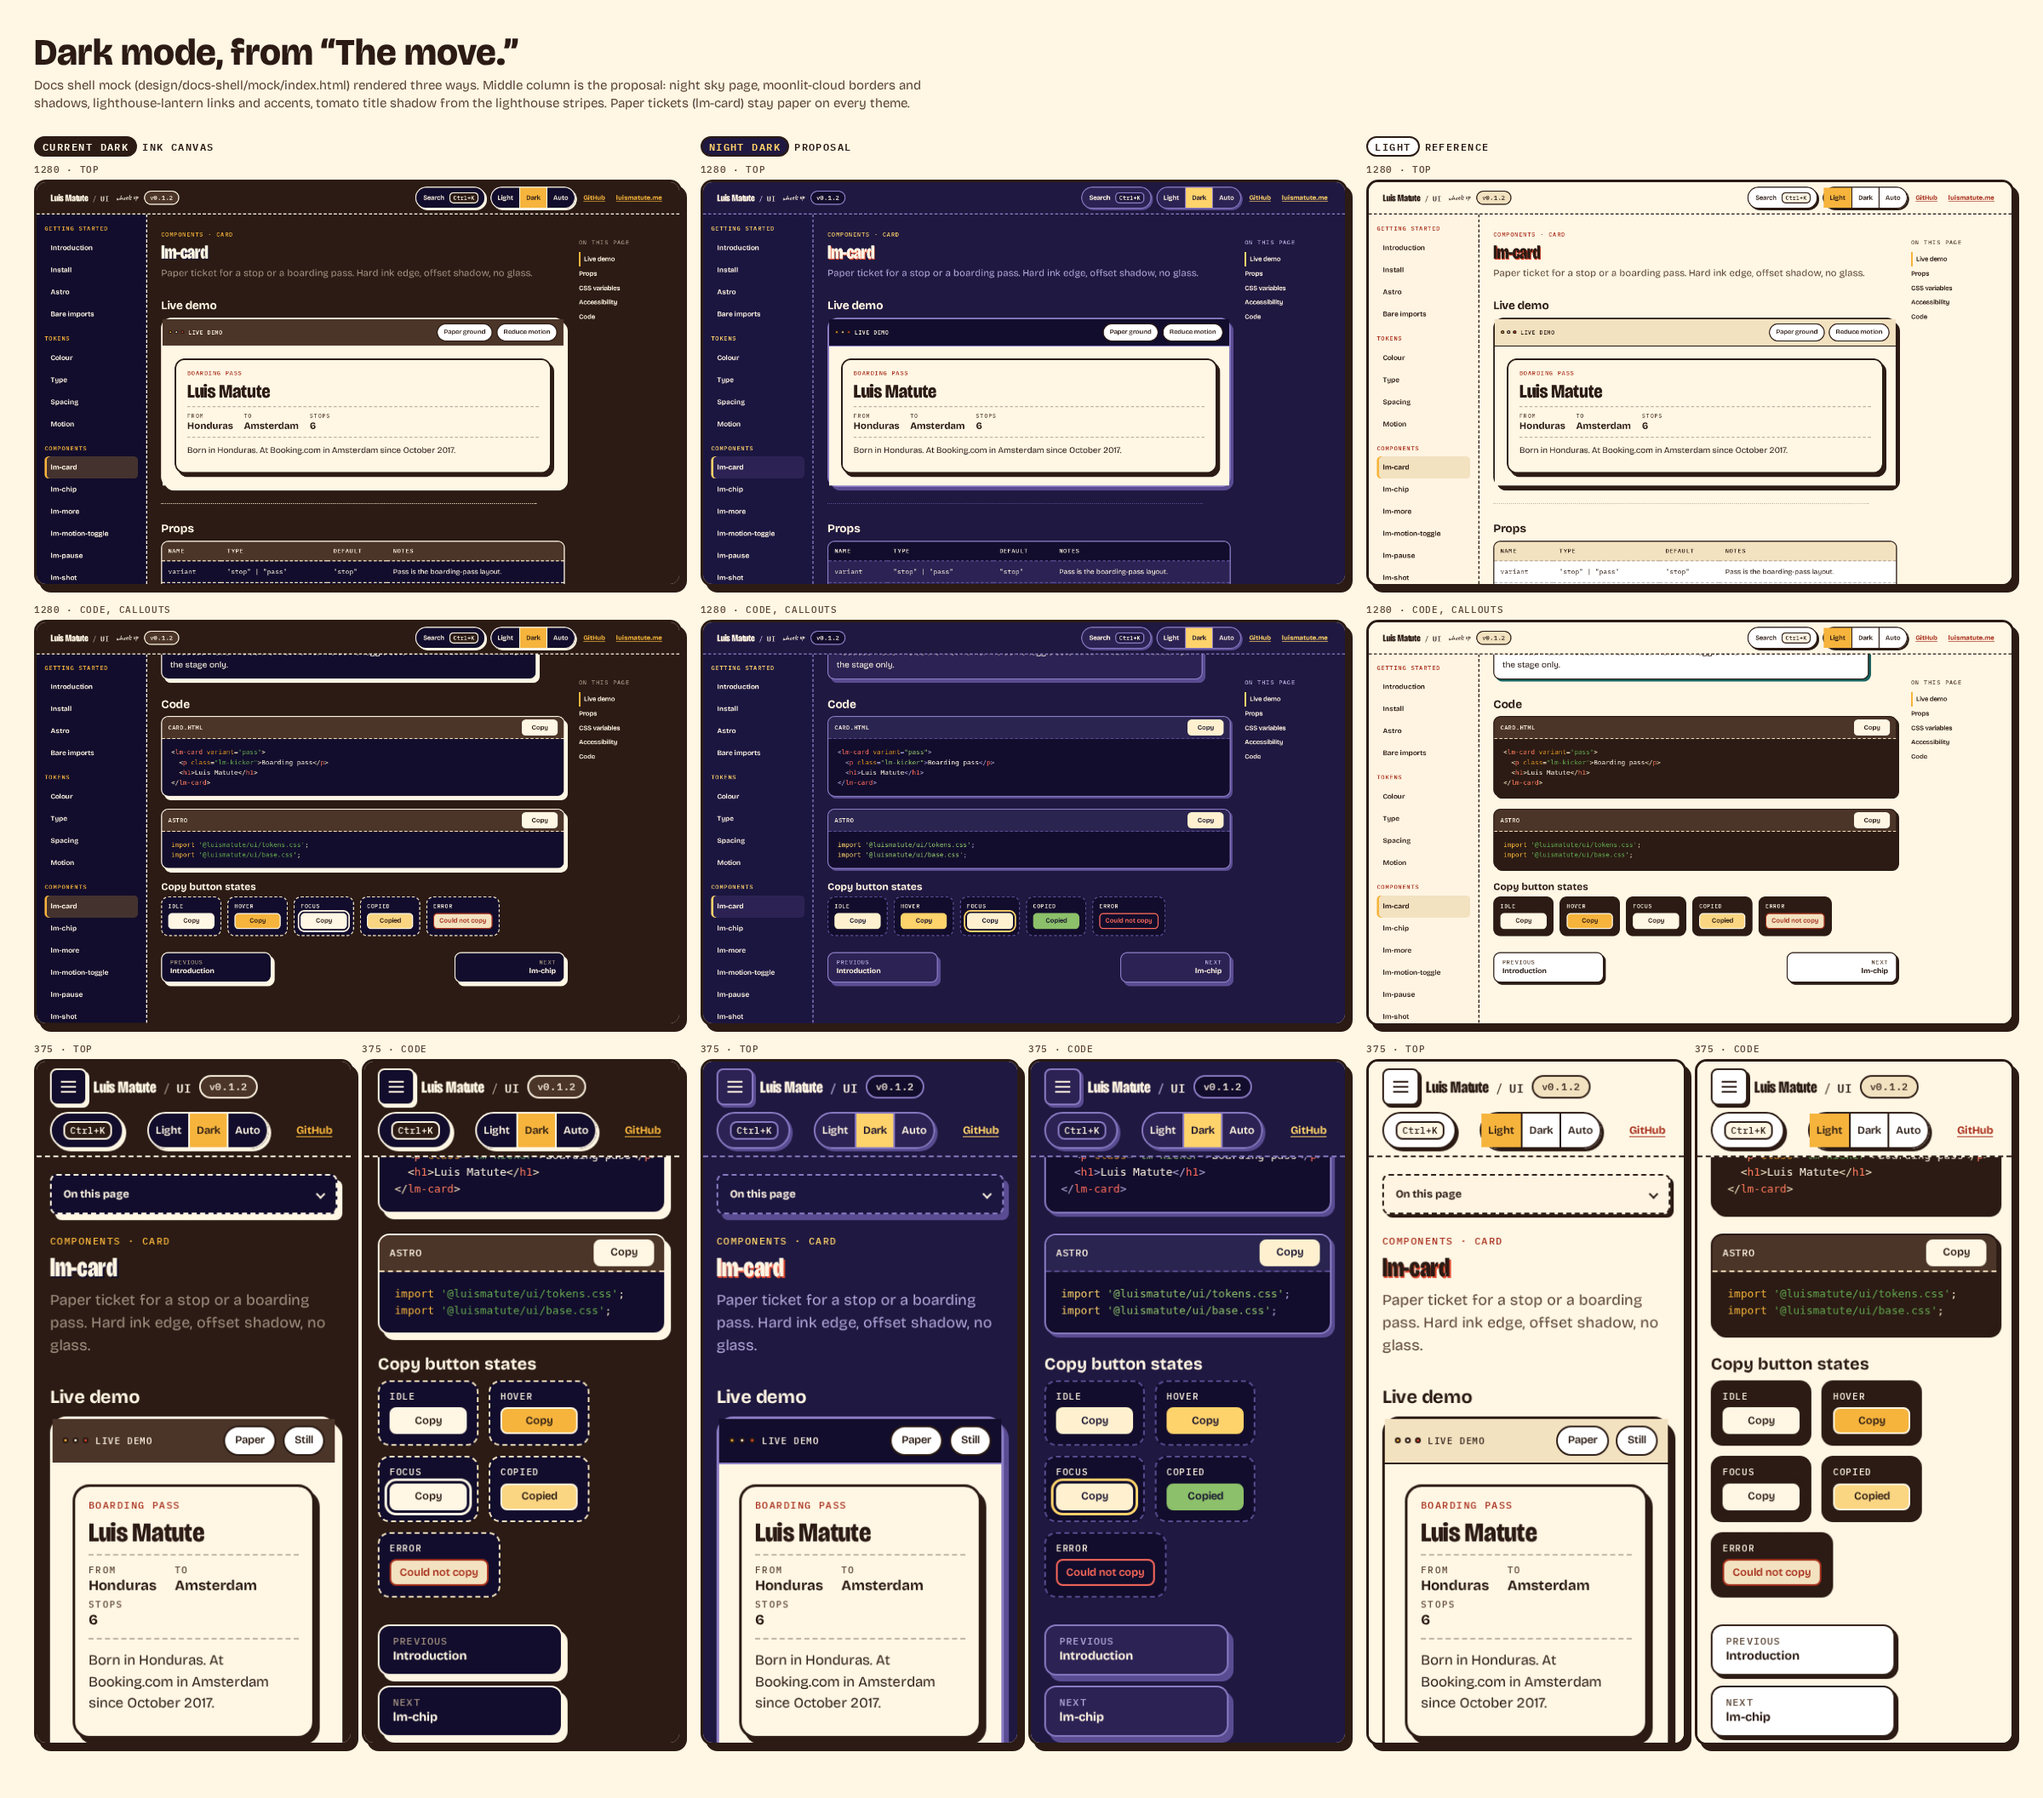
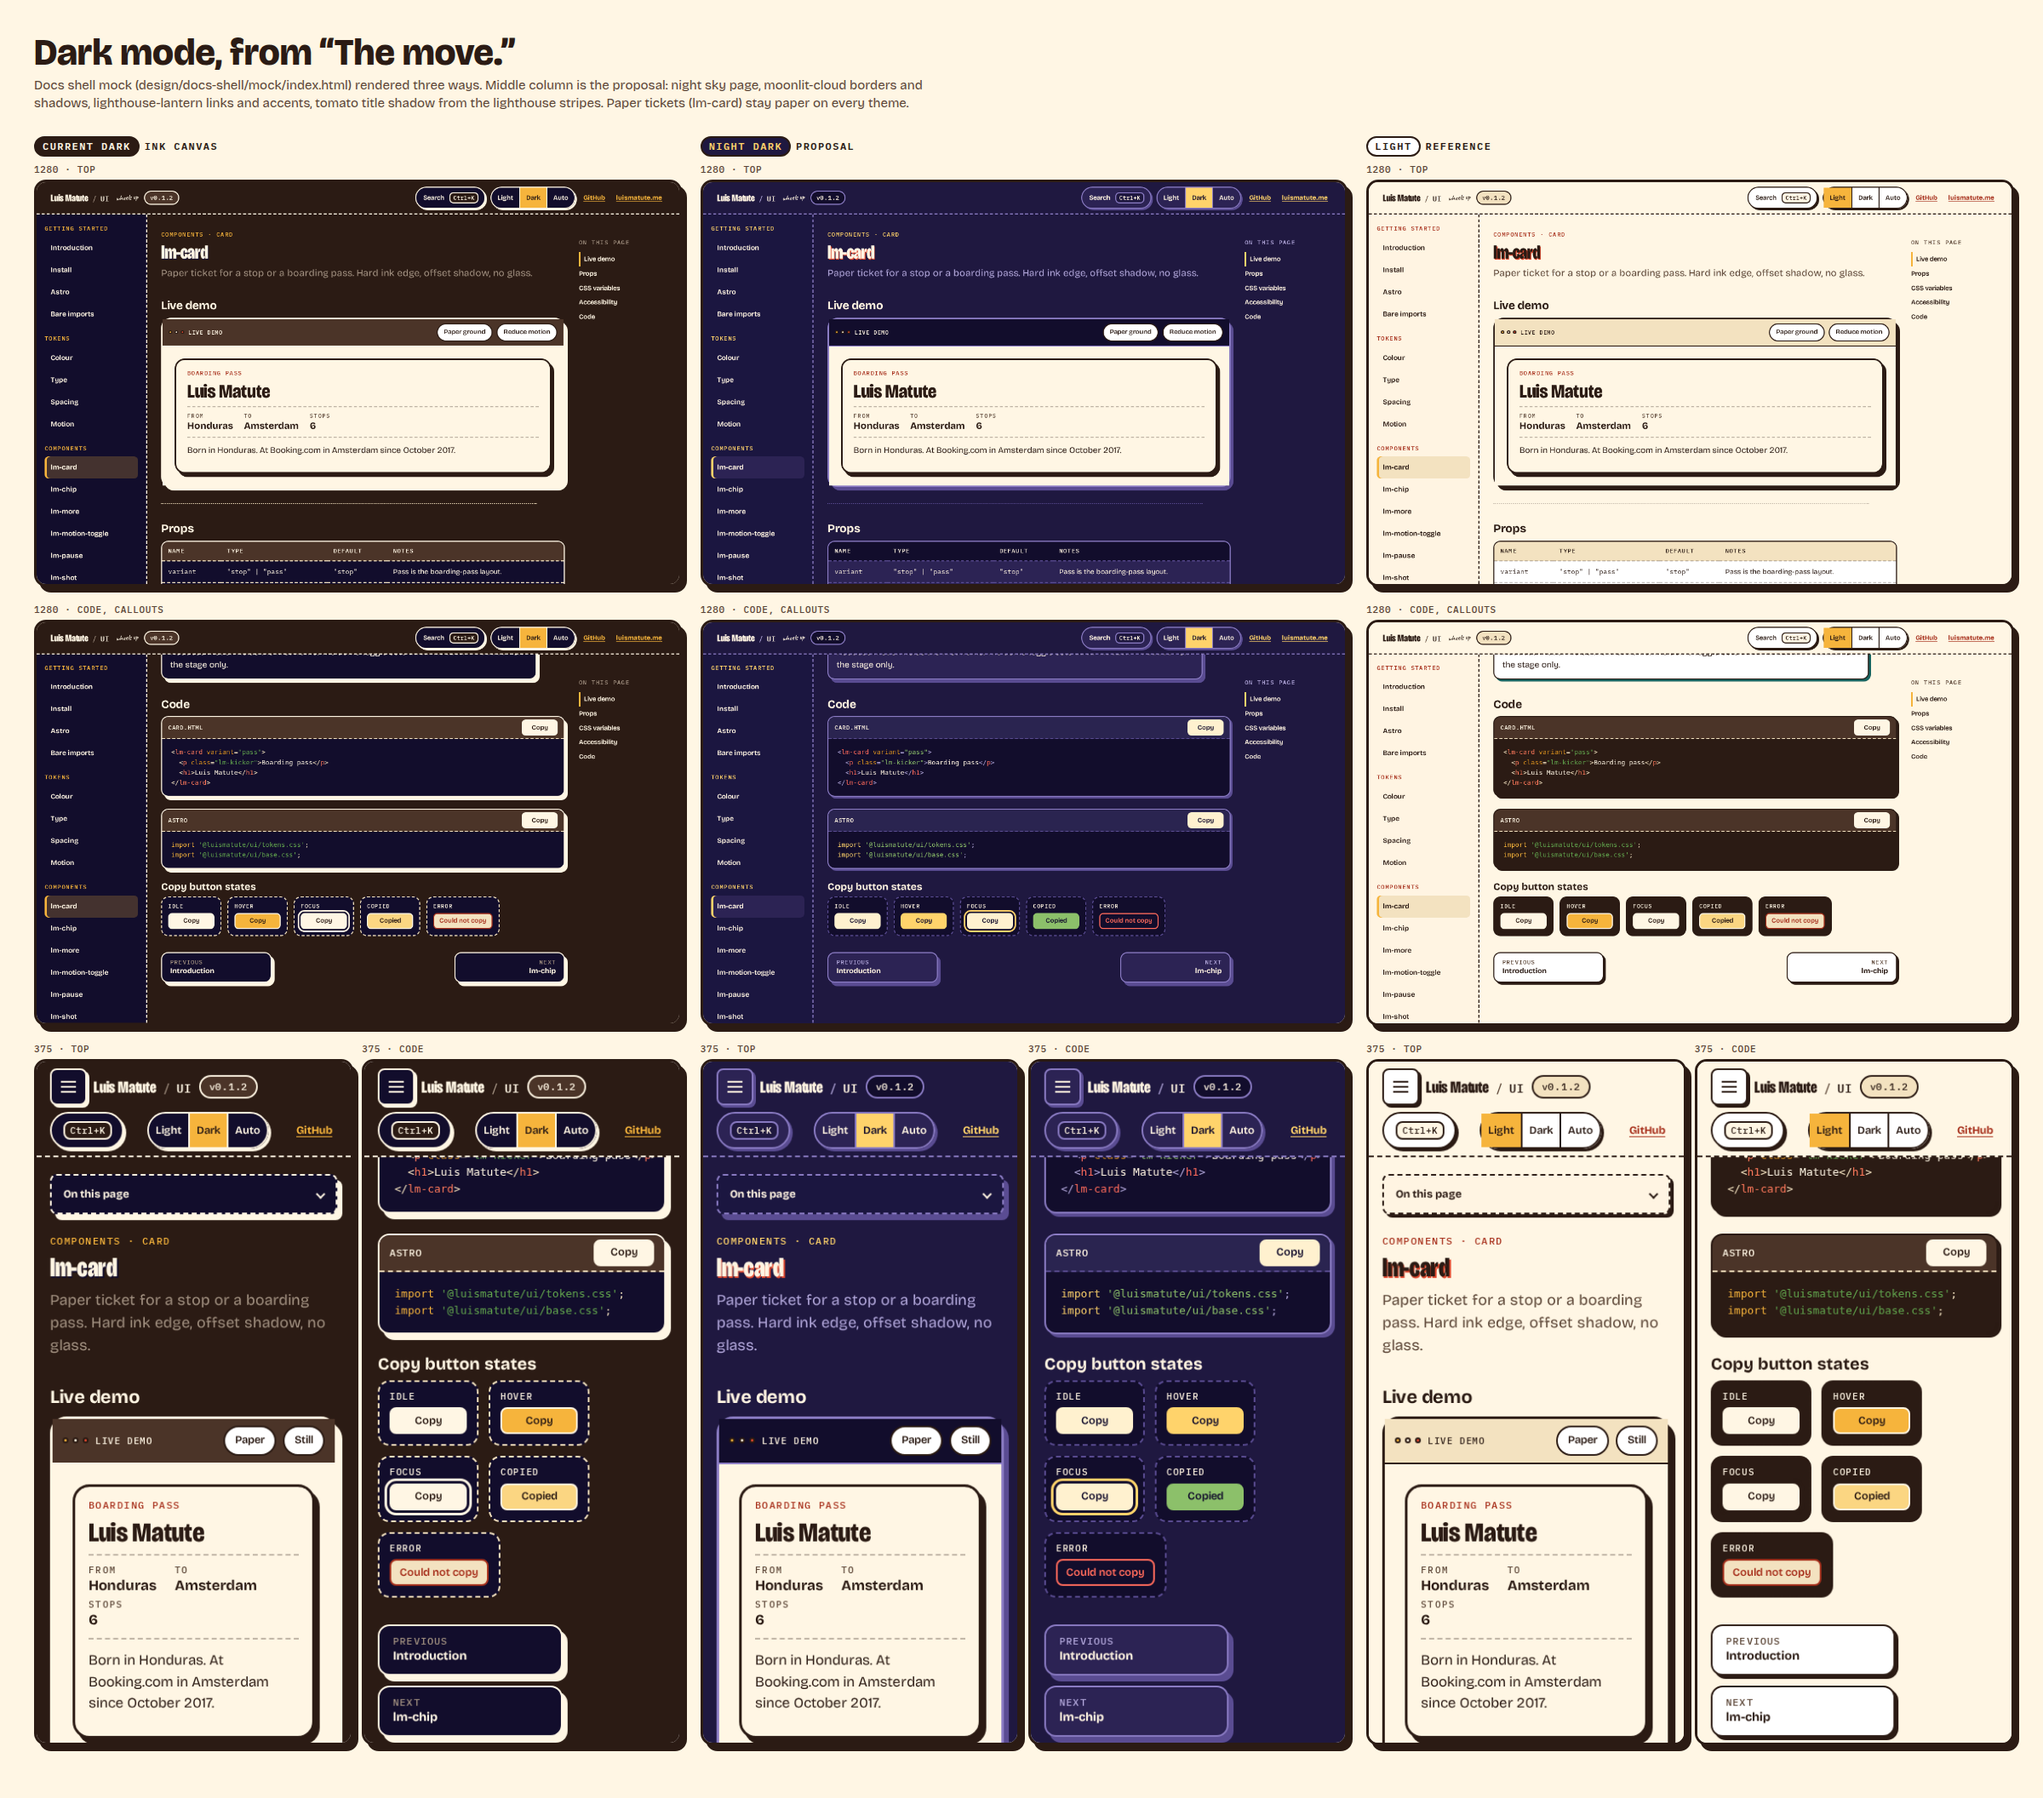
design: night v2 stills, and stars that survive rasterizing
The first star field collapsed to a single dim pixel. Cores now hold
so the sky reads, on the page and across the top bar. Sheet, hero,
and contrast stay with the pass.

Changed region(s): [[0.0312, 0.0, 0.4375, 0.0938], [0.6875, 0.0625, 0.7188, 0.0938]]

diff --git a/design/dark-night/night.css b/design/dark-night/night.css
@@ -32,14 +32,16 @@
   --night-tomato: #e2492f;    /* lighthouse stripes */
   --night-land: #8cc06a;      /* --lm-globe-land */
   --night-glass: #bfe6ee;     /* --lm-glass */
+  /* Solid core out to ~1.6px so a star survives rasterizing to a real pixel.
+     Alpha stays under the text colour. Dots are static and sparse. */
   --night-stars:
-    radial-gradient(1.5px 1.5px at 28px 36px, rgba(255, 244, 226, 0.55) 50%, transparent 52%),
-    radial-gradient(1px 1px at 132px 88px, rgba(255, 244, 226, 0.32) 50%, transparent 52%),
-    radial-gradient(2px 2px at 248px 22px, rgba(255, 244, 226, 0.62) 50%, transparent 52%),
-    radial-gradient(1px 1px at 310px 146px, rgba(255, 244, 226, 0.38) 50%, transparent 52%),
-    radial-gradient(1.5px 1.5px at 72px 196px, rgba(255, 244, 226, 0.28) 50%, transparent 52%),
-    radial-gradient(1px 1px at 188px 230px, rgba(255, 244, 226, 0.44) 50%, transparent 52%),
-    radial-gradient(1px 1px at 346px 64px, rgba(255, 244, 226, 0.3) 50%, transparent 52%);
+    radial-gradient(2.6px 2.6px at 36px 48px, rgba(255, 244, 226, 0.72) 0 62%, transparent 70%),
+    radial-gradient(2.2px 2.2px at 148px 112px, rgba(255, 244, 226, 0.42) 0 62%, transparent 70%),
+    radial-gradient(3px 3px at 264px 36px, rgba(255, 244, 226, 0.8) 0 60%, transparent 70%),
+    radial-gradient(2.2px 2.2px at 328px 168px, rgba(255, 244, 226, 0.38) 0 62%, transparent 70%),
+    radial-gradient(2.4px 2.4px at 78px 204px, rgba(255, 244, 226, 0.55) 0 62%, transparent 70%),
+    radial-gradient(2.2px 2.2px at 196px 236px, rgba(255, 244, 226, 0.34) 0 62%, transparent 70%),
+    radial-gradient(2.4px 2.4px at 352px 84px, rgba(255, 244, 226, 0.48) 0 62%, transparent 70%);
 }
 
 @media (prefers-color-scheme: dark) {
@@ -123,7 +125,7 @@ html[data-theme="dark"] {
   :root:not([data-theme="light"]) body {
     background-color: var(--docs-bg);
     background-image: var(--night-stars);
-    background-size: 380px 260px;
+    background-size: 400px 280px;
     background-repeat: repeat;
   }
 
@@ -131,18 +133,50 @@ html[data-theme="dark"] {
     background-color: var(--night-hull);
     background-image: linear-gradient(180deg, var(--night-hull) 0%, var(--night-sky-2) 100%);
   }
+
+  :root:not([data-theme="light"]) .docs-topbar::before {
+    content: "";
+    position: absolute;
+    inset: 0;
+    z-index: 0;
+    pointer-events: none;
+    background-image: var(--night-stars);
+    background-size: 400px 280px;
+    background-repeat: repeat;
+  }
+
+  :root:not([data-theme="light"]) .docs-topbar > * {
+    position: relative;
+    z-index: 1;
+  }
 }
 
 html[data-theme="dark"] body {
   background-color: var(--docs-bg);
   background-image: var(--night-stars);
-  background-size: 380px 260px;
+  background-size: 400px 280px;
   background-repeat: repeat;
 }
 
 html[data-theme="dark"] .docs-topbar {
   background-color: var(--night-hull);
   background-image: linear-gradient(180deg, var(--night-hull) 0%, var(--night-sky-2) 100%);
+}
+
+html[data-theme="dark"] .docs-topbar::before {
+  content: "";
+  position: absolute;
+  inset: 0;
+  z-index: 0;
+  pointer-events: none;
+  background-image: var(--night-stars);
+  background-size: 400px 280px;
+  background-repeat: repeat;
+}
+
+html[data-theme="dark"] .docs-topbar > * {
+  position: relative;
+  z-index: 1;
 }
 
 /* Lantern is the light. Labels and kickers stay the cloud rim. */
@@ -261,7 +295,7 @@ html[data-theme="dark"] .docs-demo-stage lm-card {
   :root:not([data-theme="light"]) .docs-search-panel {
     background-color: var(--docs-bg);
     background-image: var(--night-stars);
-    background-size: 380px 260px;
+    background-size: 400px 280px;
     background-repeat: repeat;
   }
 }
@@ -269,7 +303,7 @@ html[data-theme="dark"] .docs-demo-stage lm-card {
 html[data-theme="dark"] .docs-search-panel {
   background-color: var(--docs-bg);
   background-image: var(--night-stars);
-  background-size: 380px 260px;
+  background-size: 400px 280px;
   background-repeat: repeat;
 }
 

diff --git a/design/dark-night/PALETTE.md b/design/dark-night/PALETTE.md
@@ -85,7 +85,8 @@ The brightest star dot, composited, is a 2px speck. Text is measured on the page
 
 ## Render-look-fix
 
-Round 1 is the palette above, checked against the first-pass sheet. Notes from the stills are added after each look.
+1. **Round 1, against the first-pass sheet.** The page, the sea rail and the moonlit cards read as three planes (sidebar `#2a3266`, page `#1f1840`, cards `#443872`). The offset samples as a hard step: rim `#b9acd0`, then cloud slab `#8b7cc4`, then the page. The boarding pass is cream on the moon halo, with its ink edge, so it reads as a lit ticket. Lantern is the Dark segment, the links, the current nav label and the focus ring. Group labels are the cloud rim. Code is the deep sea under a lighter waterline. Tomato is only the title shadow. Green is the tip edge and Copied.
+2. **Stars had collapsed.** The first star field was a 1.5px gradient at 50% of its radius. In the 1280 still the only trace in an empty region was a pixel at `#5d556d`, which does not read as sky. The core now holds to about 62% of a 2.2–3px disc, alpha 0.34–0.8, and the same field sits on the top bar under the controls (`pointer-events: none`). Rechecked at 1280 and 375, top, code and search. The dots stay sparse. Text contrast is still measured on `#1f1840`.
 
 ## Reproduce
 

diff --git a/design/dark-night/contrast.md b/design/dark-night/contrast.md
@@ -71,4 +71,4 @@
 | page vs sidebar (surface step) | `#1f1840` | `#2a3266` | 1.38:1 | n/a | note |
 | elev vs sunken (surface step) | `#443872` | `#120d2c` | 1.83:1 | n/a | note |
 
-Brightest star dot composited on the page is `#aaa0a4` (2.33:1 against star text). Dots are 1–2px, static, and do not form the text background. Text is measured on `#1f1840`.
+Brightest star dot composited on the page is `#d2c8c2` (1.51:1 if a glyph sat on the dot). Dots are about 3px, static, and sparse. Text is measured on `#1f1840`.
